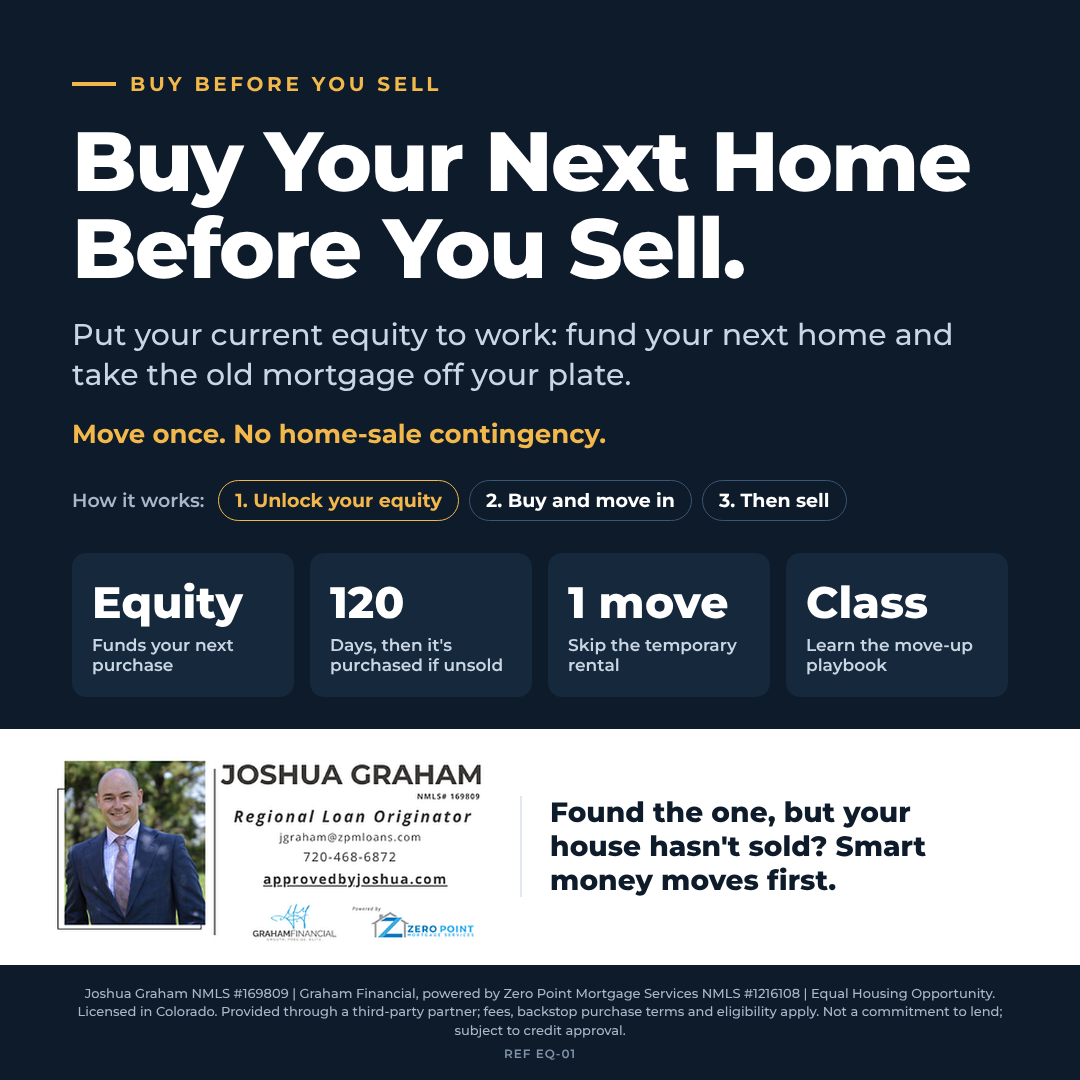
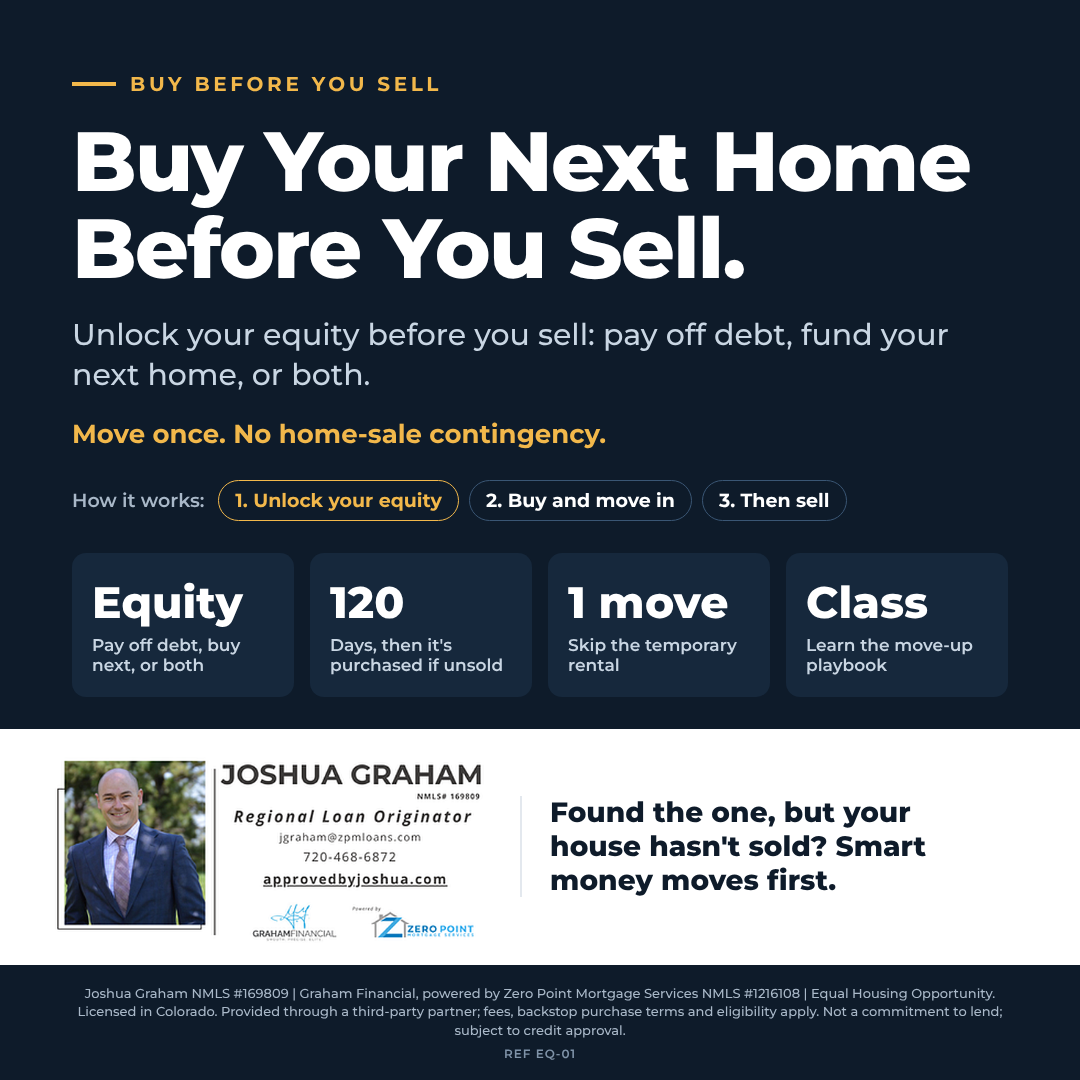
Save point: EQ-01 equity unlock can pay off debt, fund next home, or both
Claude-Session: https://claude.ai/code/session_01HF5EFoWpB6dZDERsWsq2kx

Changed region(s): [[0.0611, 0.3056, 0.8861, 0.3667], [0.0917, 0.5806, 0.2139, 0.6417]]

diff --git a/src/smart-money/data.js b/src/smart-money/data.js
@@ -325,13 +325,13 @@ Educated buyers are smart money. Jump in a class with us and let us show you how
     ref: "EQ-01", bank: "equity", name: "Buy Before You Sell", lender: "HomeLight BBYS (internal)",
     audience: "consumer", license: "required", flyer: "/smart-money/flyers/EQ-01.png", footer: "consumer",
     painPoints: ["move-up"], magnet: "equity-unlock", skool: "Homebuyers",
-    highlights: ["Current equity funds your next purchase", "Old mortgage comes off your debt load", "No home-sale contingency", "Backstop: purchased if unsold in 120 days", "Move once"],
-    notes: "HomeLight: list within 21 days; if unsold by day 120 HomeLight buys at LOAN PAYOFF VALUE (not market). Fee 2.4% of sale (2.9% FL). Never say 'no risk'; never name partner or fee in public copy. Equity goes toward the new purchase; for paying off other debts use a HELOC/cash-out strategy instead.",
+    highlights: ["Unlock equity before you sell", "Pay off debt, fund the next home, or both", "Old mortgage comes off your debt load", "No home-sale contingency", "Backstop: purchased if unsold in 120 days", "Move once"],
+    notes: "HomeLight: list within 21 days; if unsold by day 120 HomeLight buys at LOAN PAYOFF VALUE (not market). Fee 2.4% of sale (2.9% FL). Never say 'no risk'; never name partner or fee in public copy. Equity unlock is a no-payment advance (per Joshua) usable to pay off debt and/or fund the purchase; confirm terms in the partner agreement. Don't advertise 'no payments' in public copy (payment = Reg Z trigger term).",
     short: `Found the one, but your house hasn't sold yet?
 
-Smart money moves first. Put your current home's equity to work: fund your next purchase, take the old mortgage off your plate, and make an offer with no home-sale contingency.
+Smart money moves first. Unlock your current home's equity before you sell: pay off debt, fund your next purchase, or both, and make an offer with no home-sale contingency.
 
-✔ Your equity funds the next home
+✔ Use your equity to pay off debt, buy next, or both
 ✔ Your old mortgage comes off your debt load
 ✔ Built-in backstop: if it hasn't sold in 120 days, it's purchased
 ✔ Move once, and skip the temporary rental
@@ -341,7 +341,7 @@ Want the move-up playbook? Tap "Show me how" 👇`,
 
 So they make a contingent offer that loses to a cleaner one, or they sell first and end up in a short-term rental with their stuff in storage.
 
-There's a smarter order of operations. Buy-before-you-sell puts the equity in your current home to work on your next one, and takes that old mortgage off your debt load so you qualify the way you should. No home-sale contingency, and you sell on your schedule.
+There's a smarter order of operations. Buy-before-you-sell unlocks the equity in your current home before it sells. Use it to pay off debt, fund your next purchase, or both, and that old mortgage comes off your debt load so you qualify the way you should. No home-sale contingency, and you sell on your schedule.
 
 And there's a built-in backstop: if your home hasn't sold within 120 days, it's purchased, so you're not stuck carrying two homes.
 
